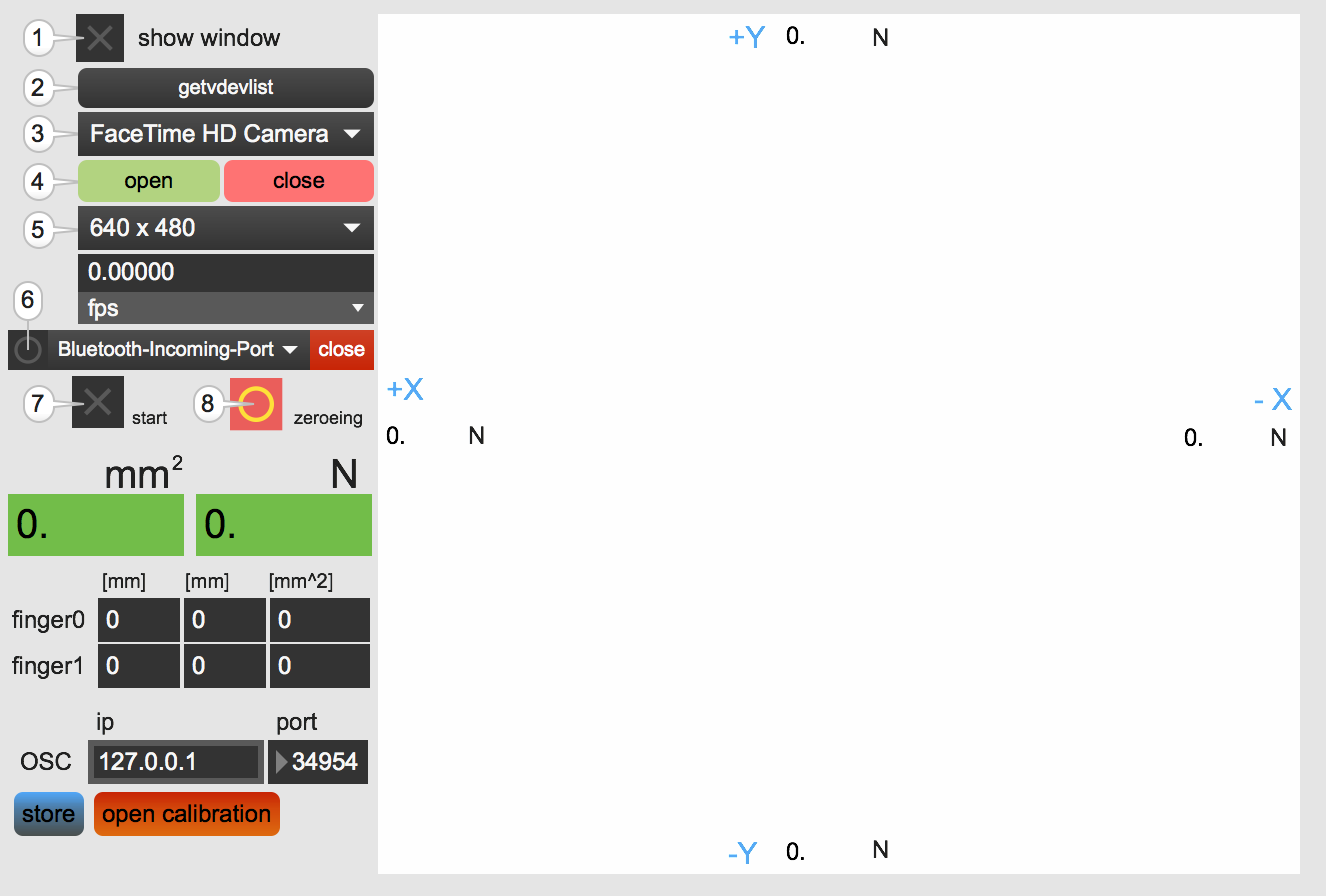
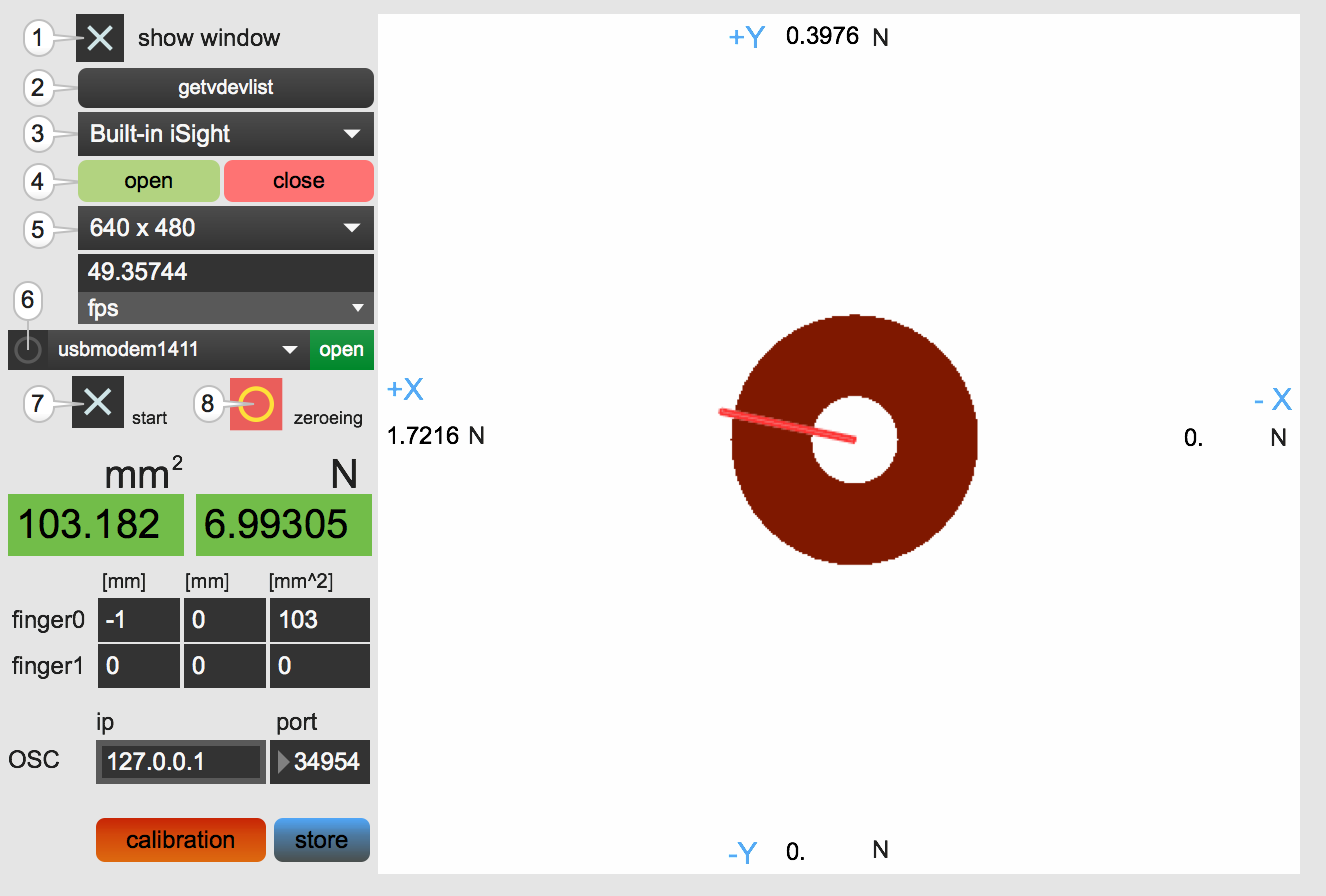
fixed finger issue updated GUI screenshot

diff --git a/README.md b/README.md
@@ -25,7 +25,6 @@ A low-cost DIY interface for tracking the position of up to two fingers in conta
 ## Software
 
 
-
 ![image](GUIScreenShot.png)
 
 * Follow the steps:
@@ -41,7 +40,7 @@ A low-cost DIY interface for tracking the position of up to two fingers in conta
 
 * For sending the data to another application via OSC, enter the ip and port number.
 
-* If you need to calibrate the software, press "open calibration"
+* If you need to calibrate the software, press "calibration" and once done "store"
 
 
 ## OSC communication protocoll
